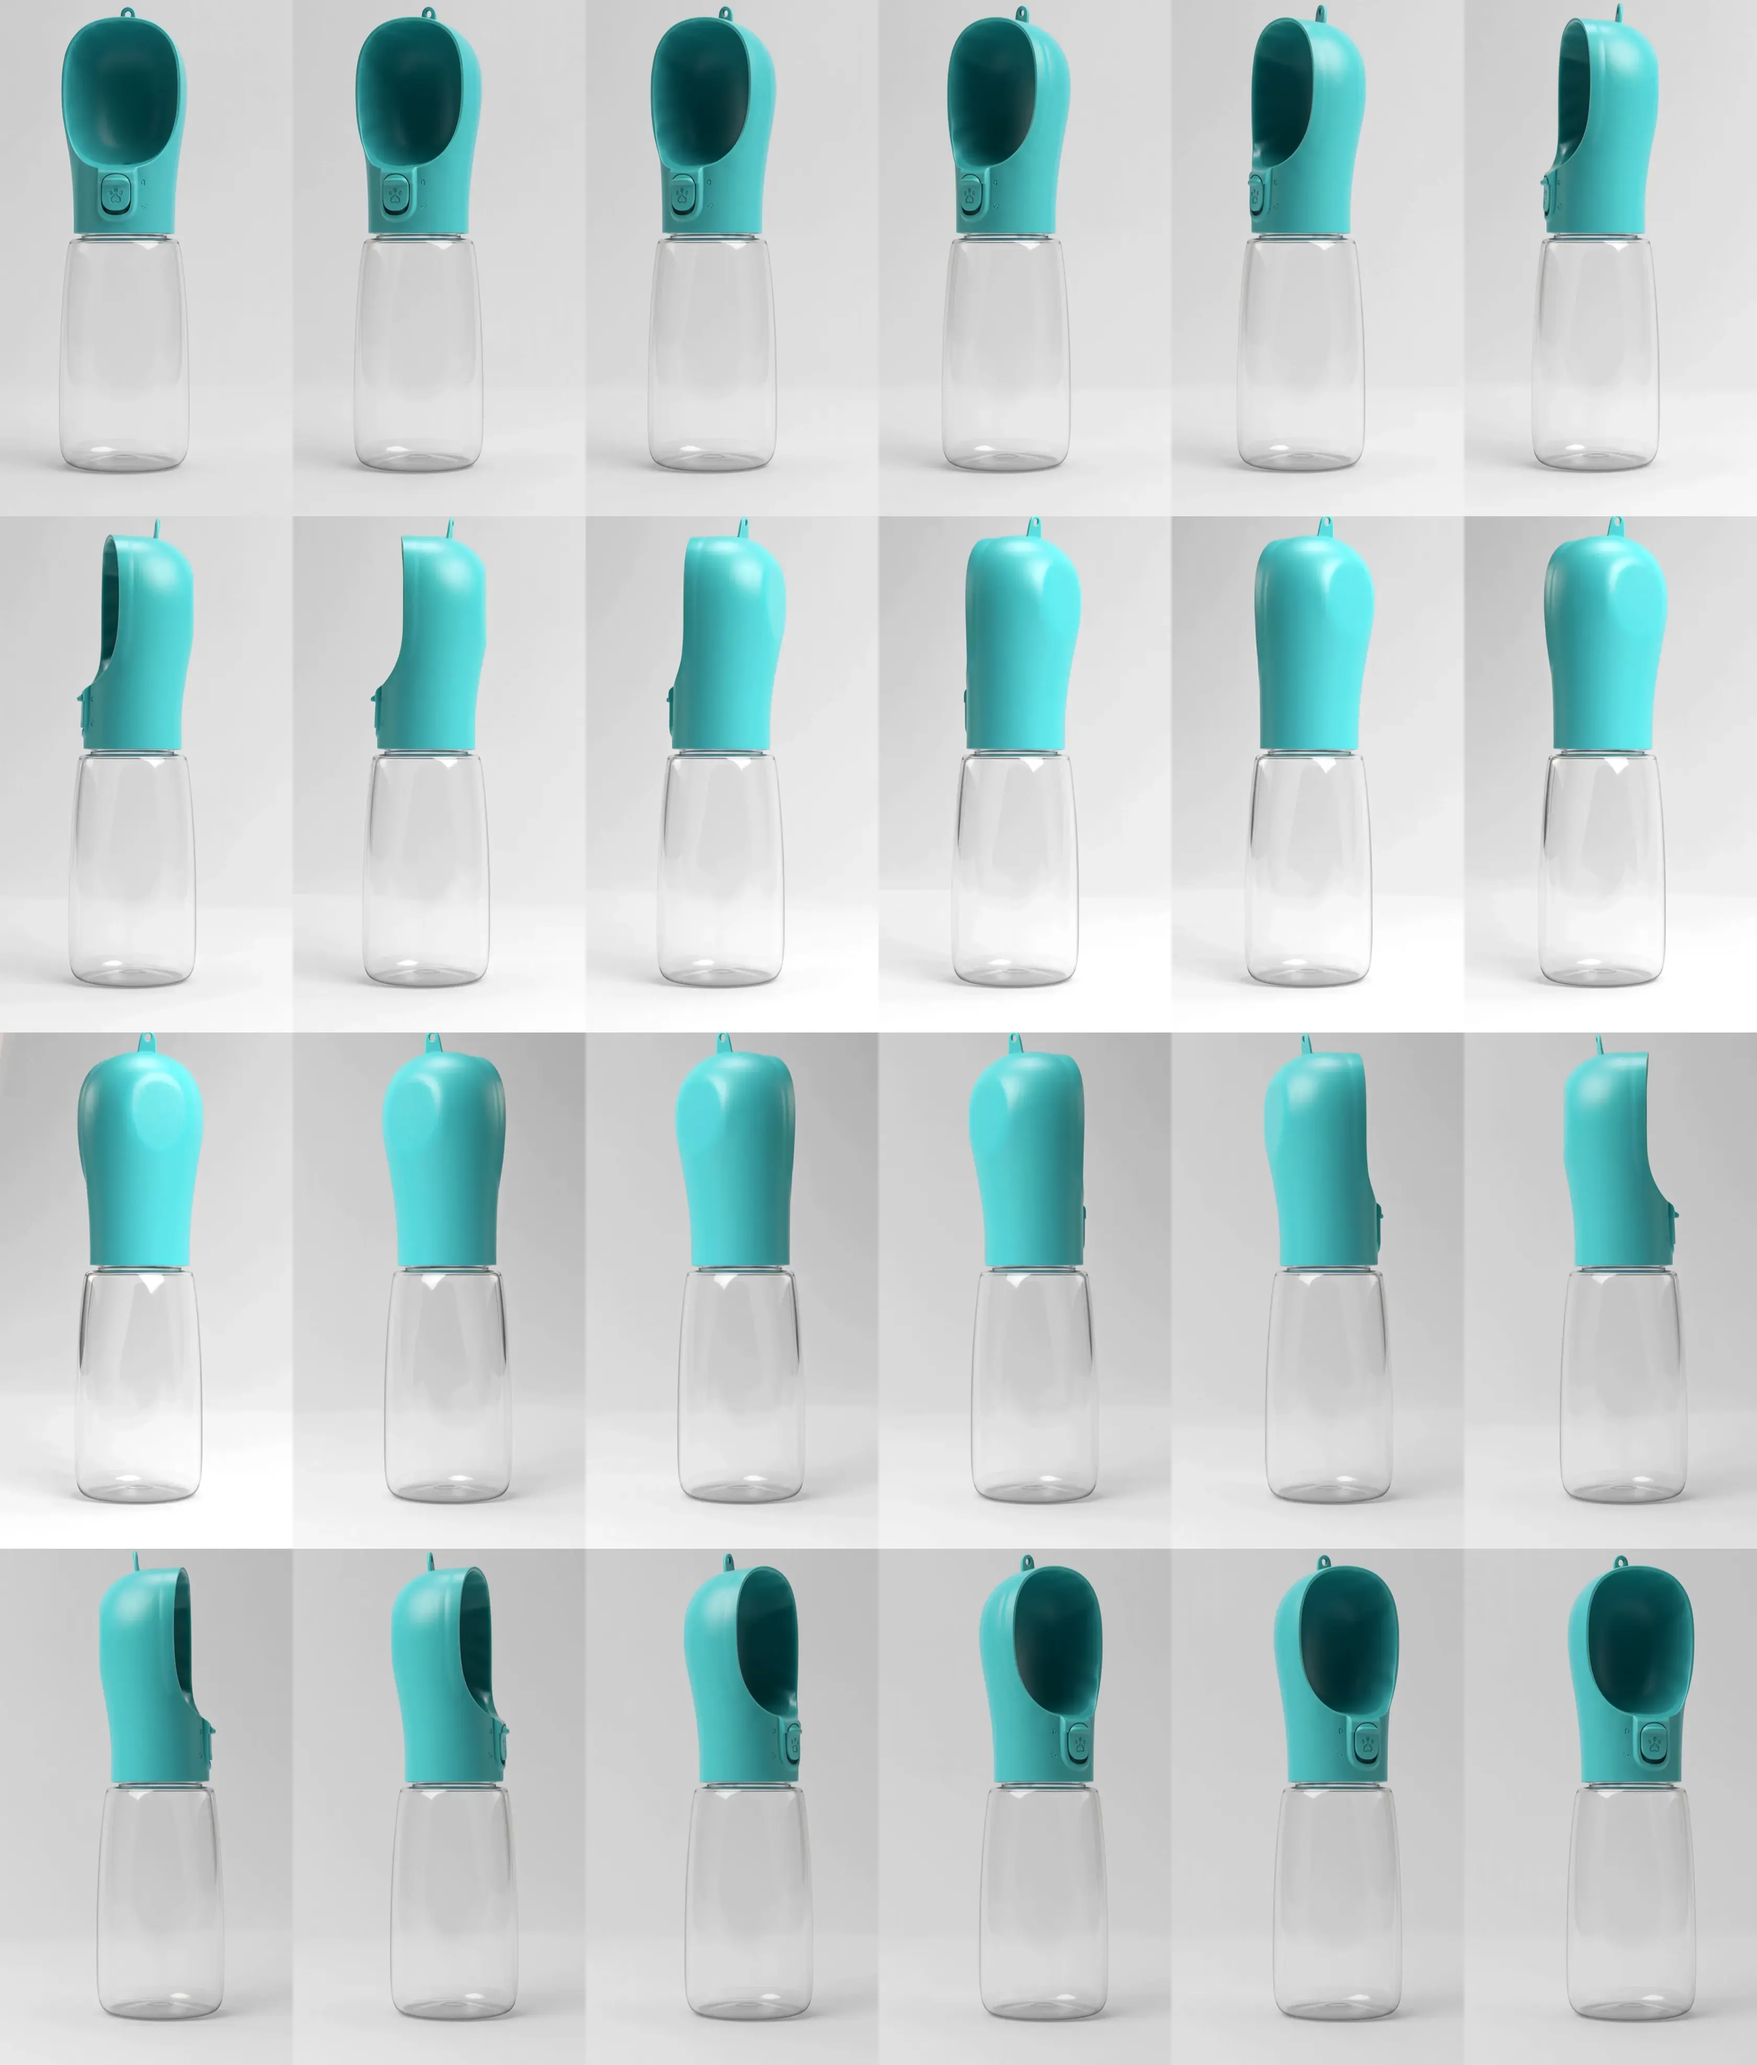
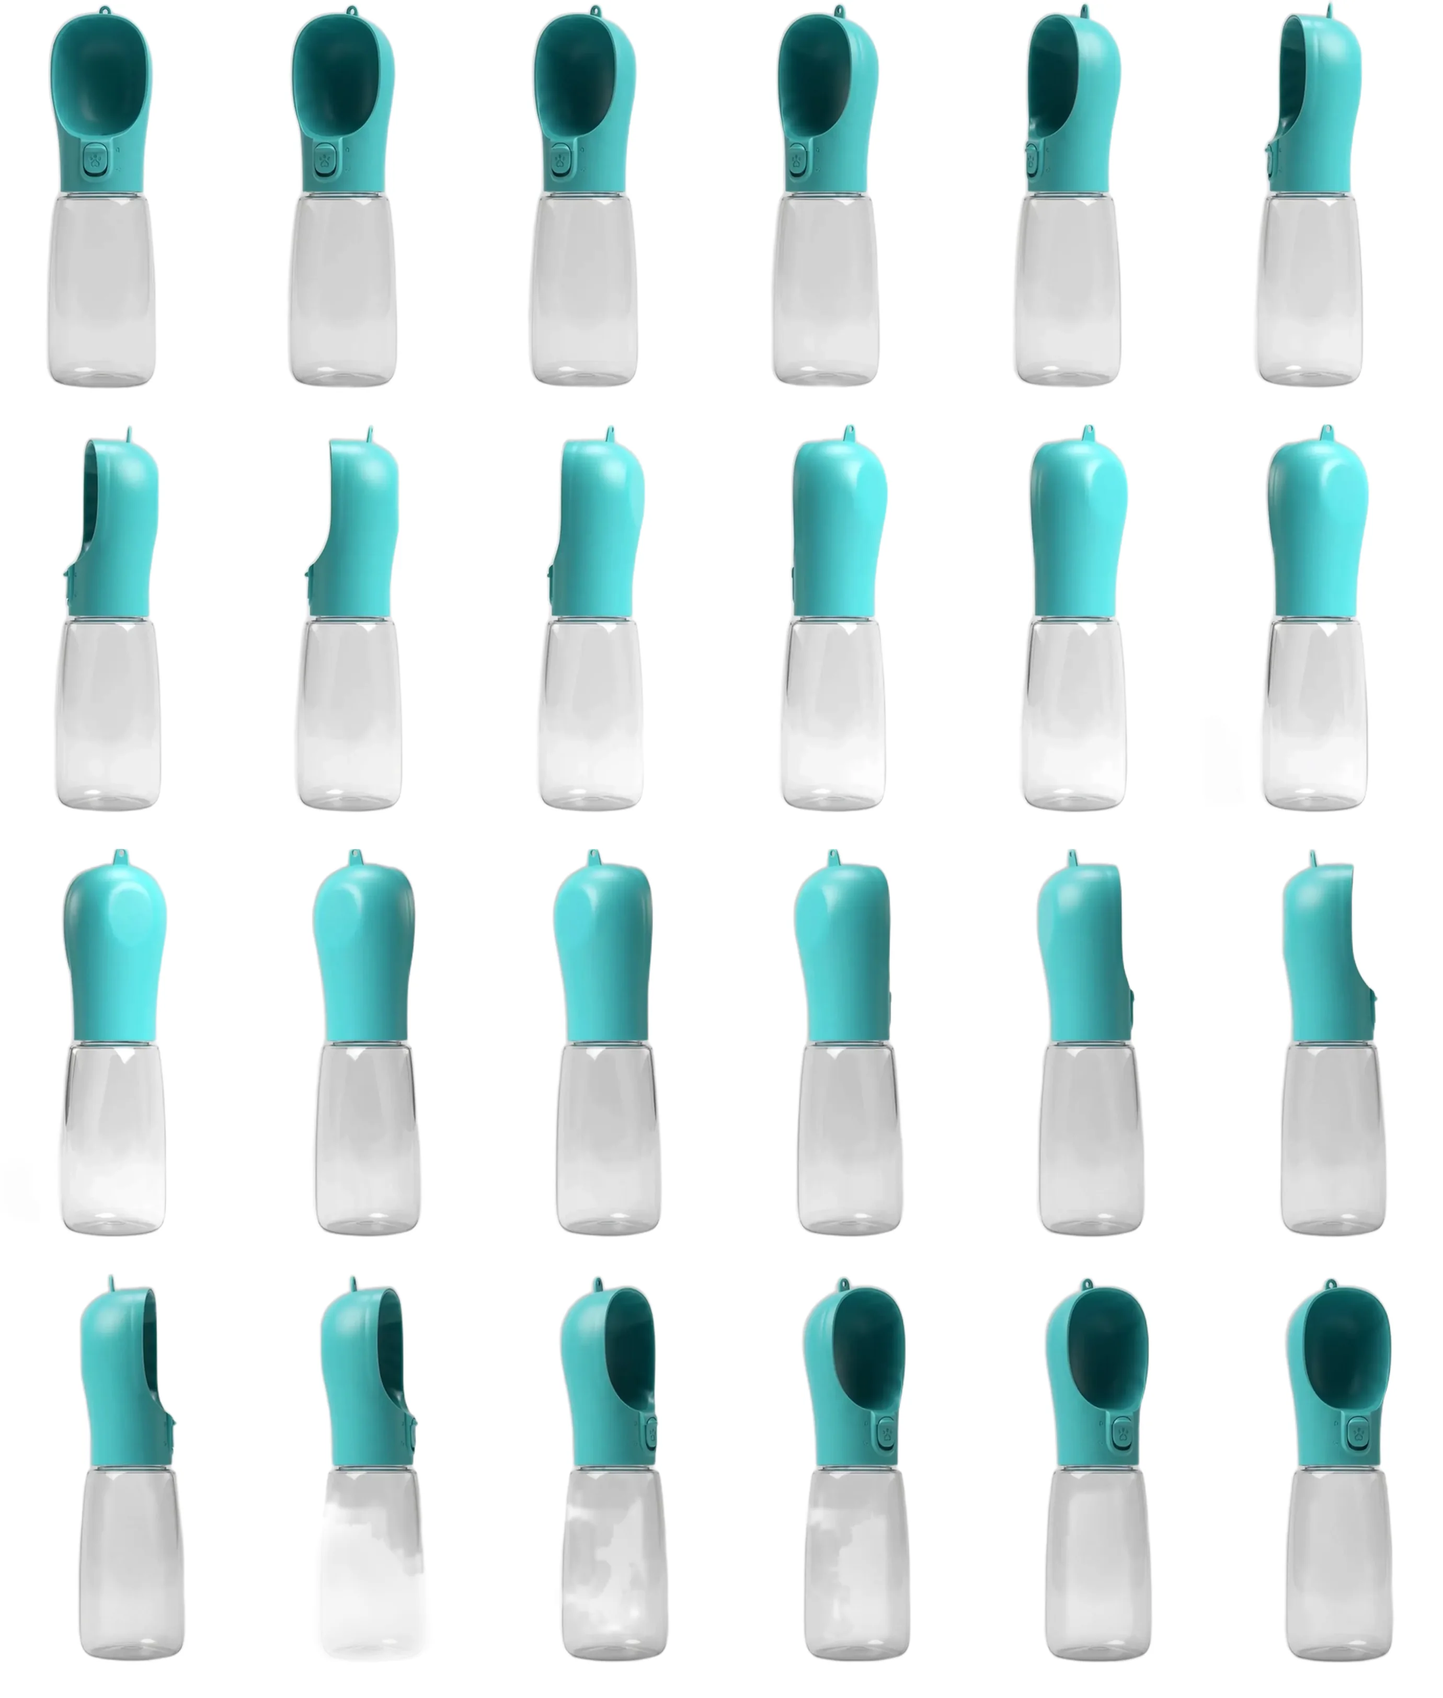
Nur die Flasche: Studiohintergrund raus, Betrachter hell
Der Dreher sah aus wie ein Bild in einem grauen Kasten - genau das
sollte er nicht sein. Der Studiohintergrund ist jetzt weg, die Flasche
steht frei.

WIE: der ganze Bogen ging EINMAL durch die Freistellung, nicht 24 mal
einzeln. Das Ergebnis kam kleiner zurueck als es hinging (1742x2048
statt 3360x3948), also geht das Raster nicht mehr glatt auf; jede
Zelle wird deshalb an ihrer rechnerischen Grenze geschnitten und
danach auf ein glattes Mass gebracht.

WARUM NICHT MIT ALPHA: gemessen wiegt derselbe Bogen mit Alphakanal
360 bis 630 KB, ohne 111 KB. Die Seite ist selbst weiss, also sieht
der Freisteller auf weissem Grund genauso aus wie einer mit Alpha -
zum Drittel des Gewichts. Fast durchsichtige Reste des Freistellers
wurden vorher auf Null gesetzt, sie kosten beim Packen und sieht man
ohnehin nicht.

FOLGE FUERS VOLLBILD: der Rundumblick lag auf fast schwarzem Grund.
Dort haette der weiss hinterlegte Bogen als weisser Kasten gestanden.
Er ist jetzt hell, Schliessknopf und Hinweis entsprechend dunkel.
Produkt auf Weiss ist ohnehin die ruhigere Buehne.

Der Eckenradius am Inline-Feld ist weg - er machte aus der
freistehenden Flasche wieder eine Karte. Die tote Regel .n-rund__bild
ist entfernt, sie stammt aus der Zeit vor dem Bogen.

Gerendert geprueft, beide Ansichten, keine JS-Fehler.

diff --git a/shop/theme-nova/assets/n-nova.css b/shop/theme-nova/assets/n-nova.css
@@ -1561,17 +1561,11 @@ html.n-intro .n-vorhang.n-hebt { transform: translate3d(0, -101%, 0); }
 .n-rund {
   position: fixed; inset: 0; z-index: 210;
   display: grid; place-items: center;
-  background: rgb(20 16 12 / .93);
+  background: rgb(255 255 255 / .97);
   padding: clamp(1rem, 4vw, 3rem);
   cursor: grab; touch-action: none;
 }
 .n-rund:active { cursor: grabbing; }
-.n-rund__bild {
-  max-height: 76vh; max-width: 100%; width: auto; height: auto;
-  -webkit-user-select: none; user-select: none; pointer-events: none;
-  filter: drop-shadow(0 30px 44px rgb(0 0 0 / .5));
-}
-
 /* Alle Ansichten liegen in EINER Datei nebeneinander, und dieses Feld
    zeigt immer nur eine Zelle davon. Der Grund ist nicht Sparsamkeit,
    sondern Ruhe: 24 einzelne Dateien werden einzeln geladen, und beim
@@ -1583,11 +1577,10 @@ html.n-intro .n-vorhang.n-hebt { transform: translate3d(0, -101%, 0); }
    Seitenverhaeltnis kommt aus der Zellgroesse, damit das Feld auf
    jedem Bildschirm dieselbe Form hat. */
 .n-rund__bogen {
-  height: 76vh; aspect-ratio: 560 / 987; max-width: 100%;
+  height: 76vh; aspect-ratio: 460 / 812; max-width: 100%;
   background-repeat: no-repeat;
   background-size: calc(var(--sp) * 100%) calc(var(--ze) * 100%);
   -webkit-user-select: none; user-select: none; pointer-events: none;
-  filter: drop-shadow(0 30px 44px rgb(0 0 0 / .5));
 }
 .n-rund__hinweis {
   position: absolute; inset-inline: 0; bottom: clamp(1rem, 4vw, 2.5rem);
@@ -1598,11 +1591,11 @@ html.n-intro .n-vorhang.n-hebt { transform: translate3d(0, -101%, 0); }
 .n-rund__zu {
   position: absolute; top: clamp(.75rem, 3vw, 1.5rem); right: clamp(.75rem, 3vw, 1.5rem);
   width: 42px; height: 42px; border-radius: 50%;
-  border: 1px solid rgb(255 255 255 / .22);
-  background: rgb(255 255 255 / .1); color: #FFFFFF;
+  border: 1px solid rgb(17 17 17 / .16);
+  background: rgb(17 17 17 / .05); color: #111111;
   font: inherit; font-size: 1.05rem; line-height: 1; cursor: pointer;
 }
-.n-rund__zu:focus-visible { outline: 2px solid #FFFFFF; outline-offset: 3px; }
+.n-rund__zu:focus-visible { outline: 2px solid #111111; outline-offset: 3px; }
 
 /* ====================================================================
    SECHS FARBEN AUF DEM HANDY: STREIFEN STATT TURM
@@ -2110,8 +2103,7 @@ html.n-sperre, html.n-sperre body { overflow: hidden; }
    Wischen beim Browser und nur das waagrechte gehoert der Drehung. */
 .n-dreher {
   display: block; width: 100%; max-width: 420px; margin-inline: auto;
-  aspect-ratio: 560 / 987;
-  border-radius: var(--n-rund-gross);
+  aspect-ratio: 460 / 812;
   background-image: var(--bogen);
   background-repeat: no-repeat;
   background-size: calc(var(--sp) * 100%) calc(var(--ze) * 100%);
